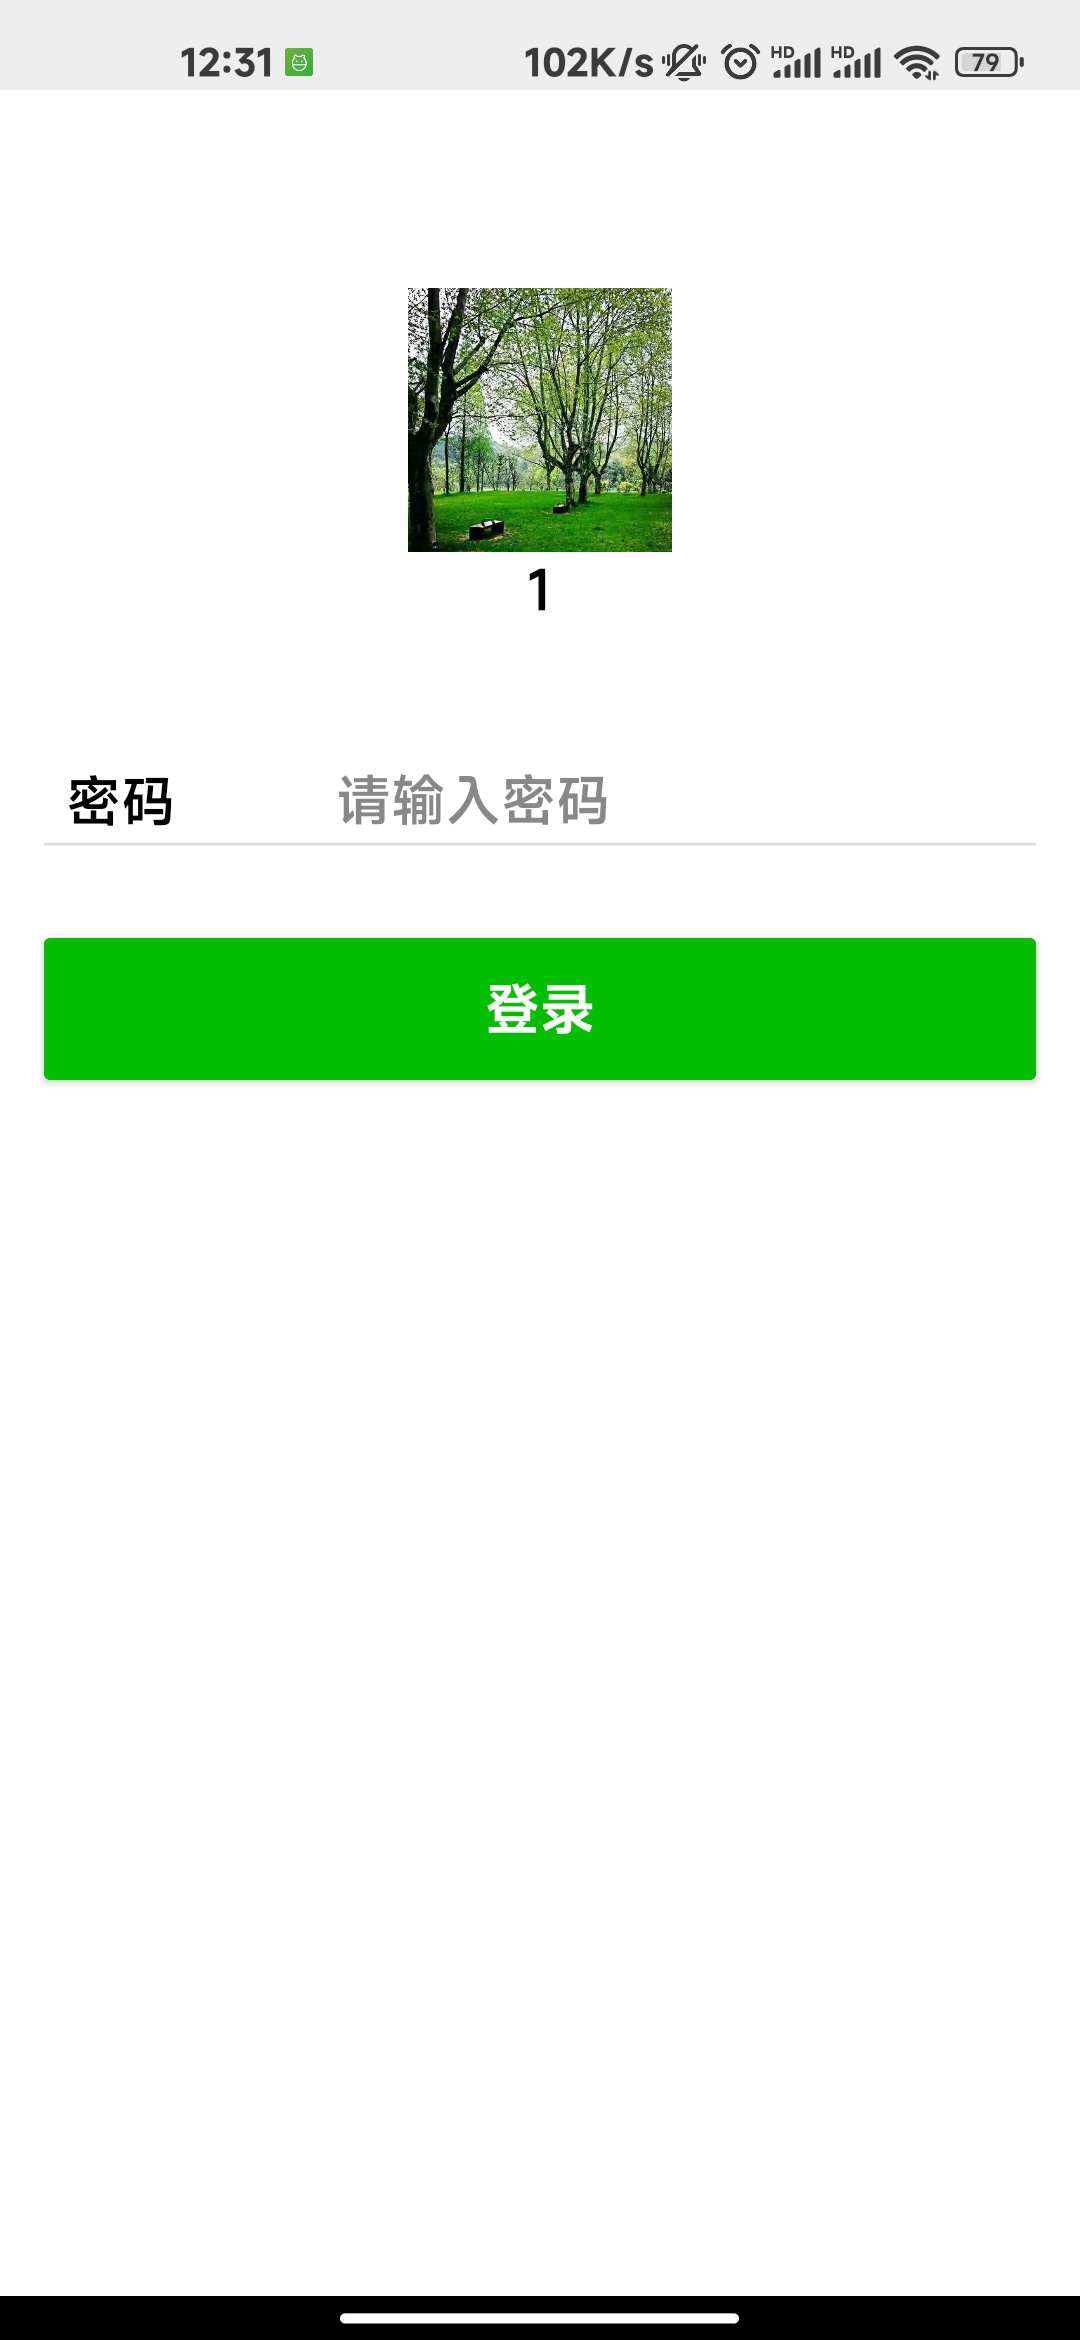
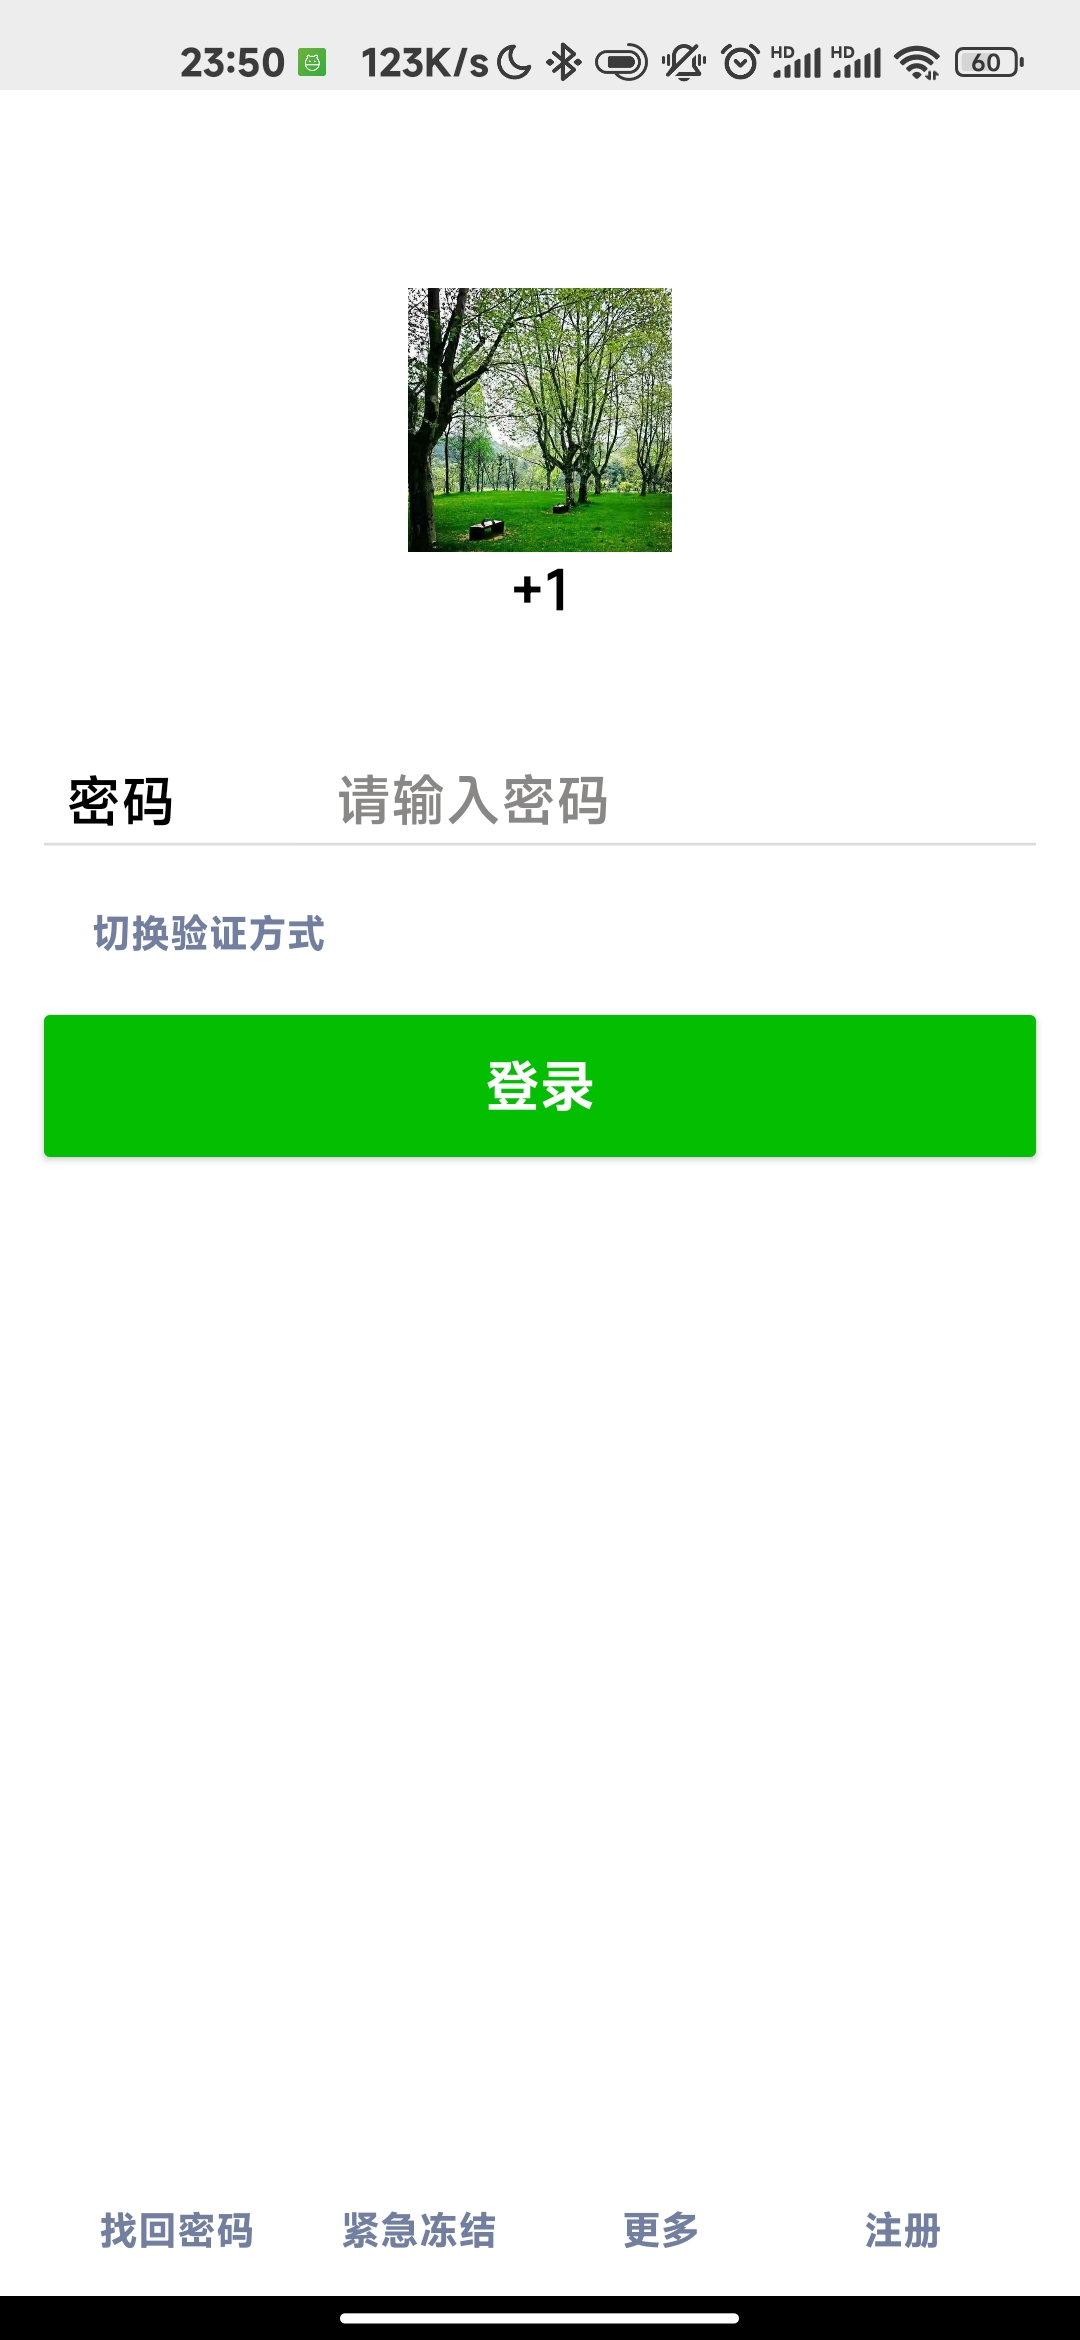
📝 Update Login Activity

diff --git a/app/src/main/java/icu/fur93/imitatewechat/ui/login/LoginActivity.kt b/app/src/main/java/icu/fur93/imitatewechat/ui/login/LoginActivity.kt
@@ -1,5 +1,6 @@
 package icu.fur93.imitatewechat.ui.login
 
+import android.content.Intent
 import android.os.Bundle
 import android.widget.Toast
 import androidx.appcompat.app.AppCompatActivity
@@ -35,6 +36,13 @@ class LoginActivity : AppCompatActivity() {
                 Toast.makeText(this, R.string.msg_login_failed_toast, Toast.LENGTH_SHORT).show()
 
             }
+
+        }
+
+        binding.btnToSignUp.setOnClickListener{
+
+            val intent = Intent(this, RegisterActivity::class.java)
+            startActivity(intent)
 
         }
 
